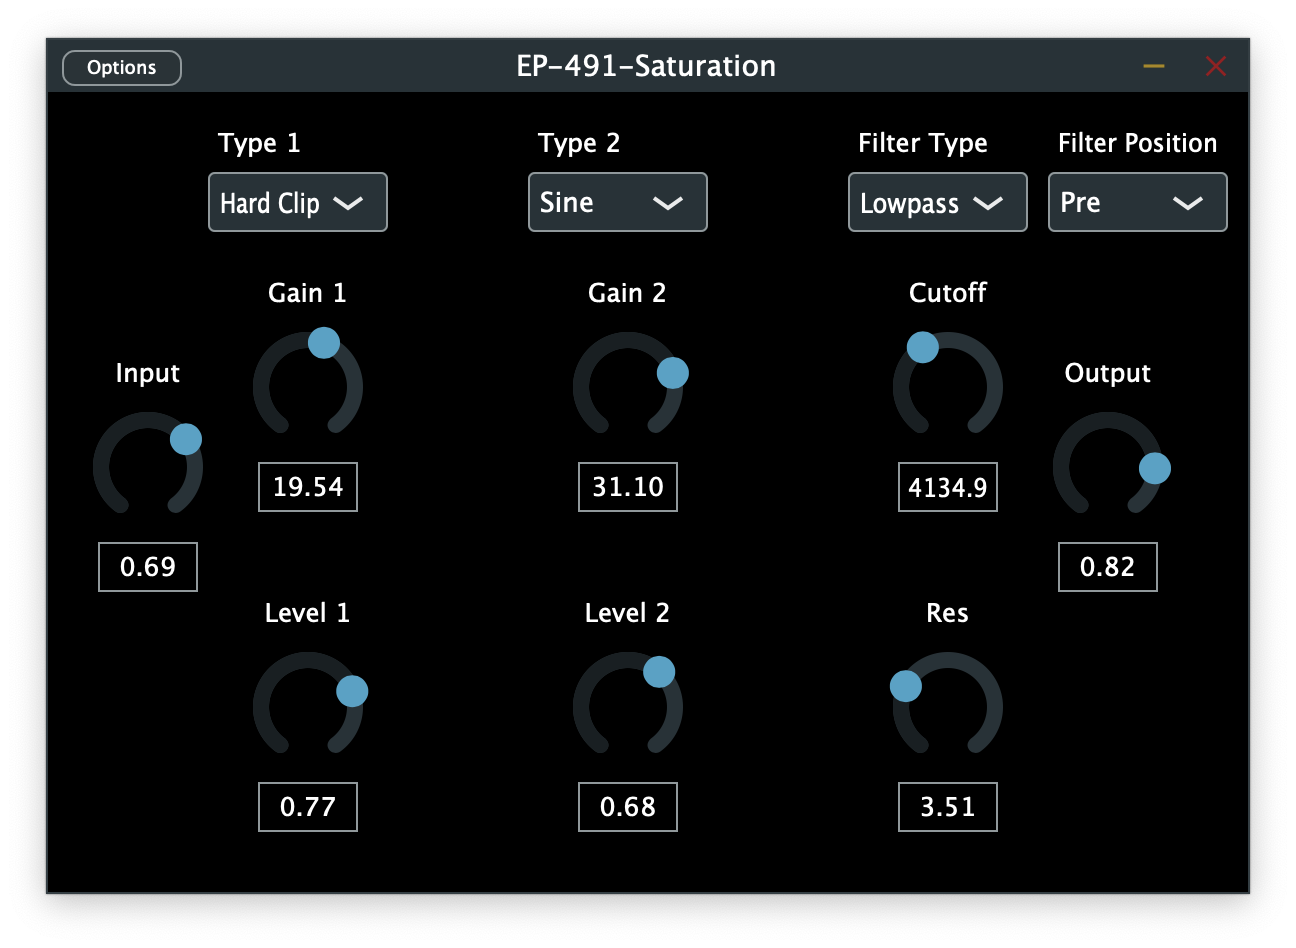
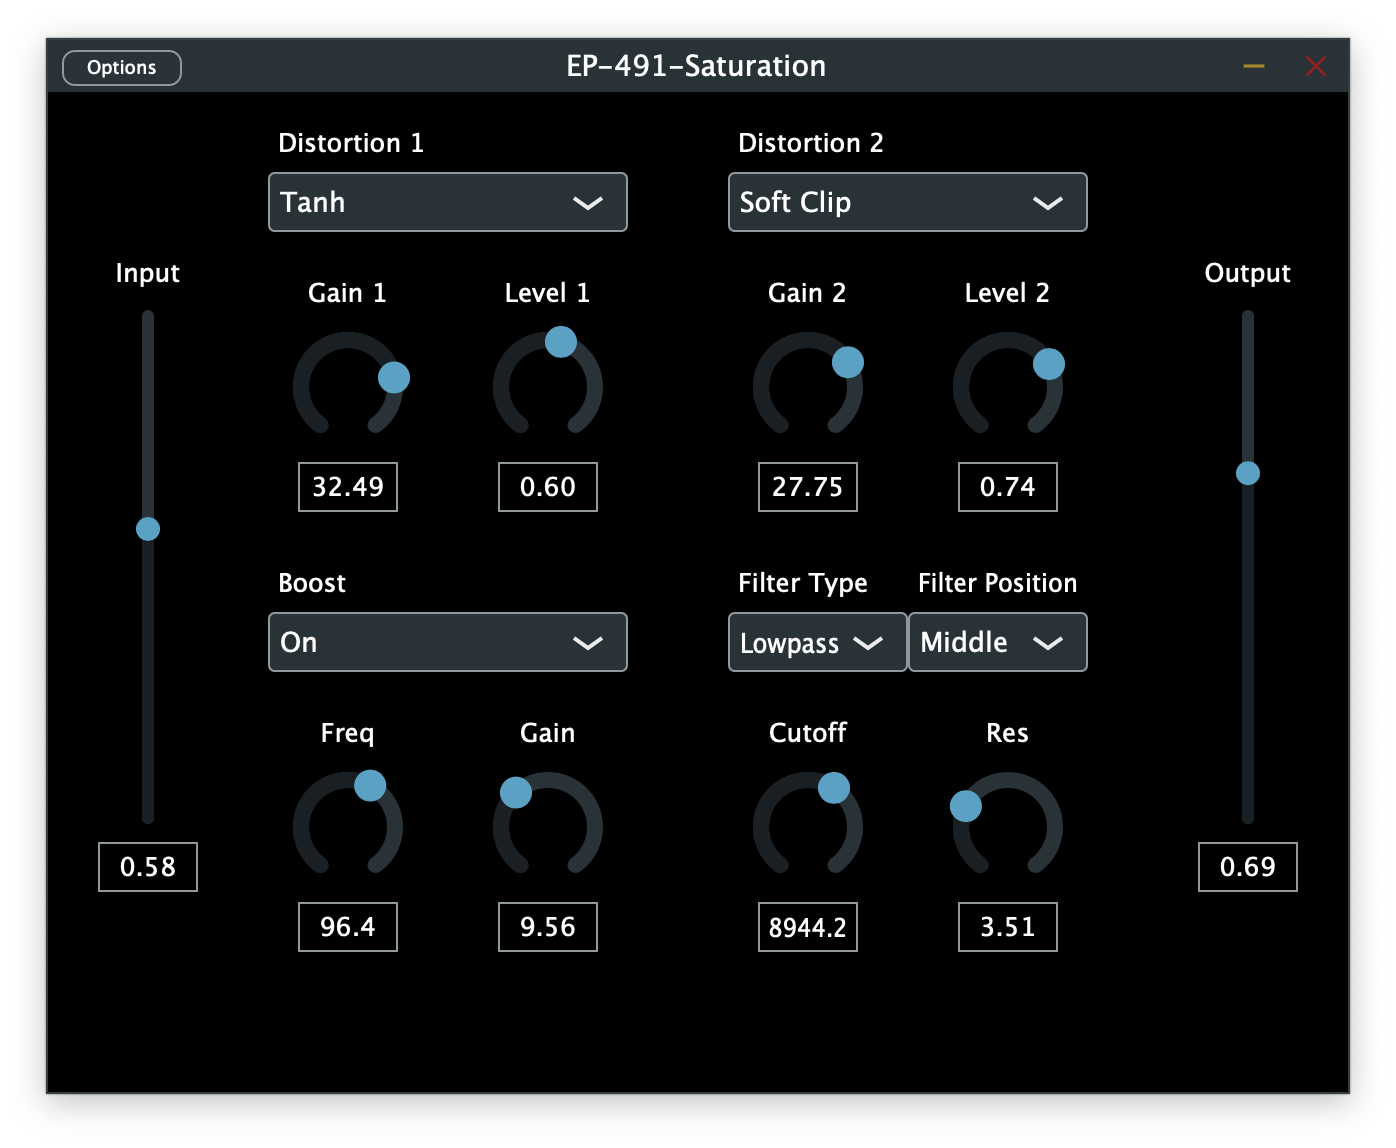
New UI, added boost

diff --git a/EP-491-Saturation/Source/PluginEditor.cpp b/EP-491-Saturation/Source/PluginEditor.cpp
@@ -15,8 +15,8 @@ EP491SaturationAudioProcessorEditor::EP491SaturationAudioProcessorEditor (EP491S
 {
     setComboBoxes();
     
-    setSliderWithLabel (inputSlider, inputLabel, audioProcessor.apvts, "INPUT", inputAttachment);
-    setSliderWithLabel (outputSlider, outputLabel, audioProcessor.apvts, "OUTPUT", outputAttachment);
+    setMixSliderWithLabel (inputSlider, inputLabel, audioProcessor.apvts, "INPUT", inputAttachment);
+    setMixSliderWithLabel (outputSlider, outputLabel, audioProcessor.apvts, "OUTPUT", outputAttachment);
         
     setSliderWithLabel (gain1Slider, gain1Label, audioProcessor.apvts, "DISTGAIN", gain1Attachment);
     setSliderWithLabel (gain2Slider, gain2Label, audioProcessor.apvts, "DISTGAIN2", gain2Attachment);
@@ -27,7 +27,10 @@ EP491SaturationAudioProcessorEditor::EP491SaturationAudioProcessorEditor (EP491S
     setSliderWithLabel (cutoffSlider, cutoffLabel, audioProcessor.apvts, "FILTERFREQ", cutoffAttachment);
     setSliderWithLabel (resSlider, resLabel, audioProcessor.apvts, "FILTERRES", resAttachment);
     
-    setSize (600, 400);
+    setSliderWithLabel (boomSlider, boomLabel, audioProcessor.apvts, "BOOM", boomAttachment);
+    setSliderWithLabel (boomFreqSlider, boomFreqLabel, audioProcessor.apvts, "BOOMFREQ", boomFreqAttachment);
+    
+    setSize (650, 500);
 }
 
 EP491SaturationAudioProcessorEditor::~EP491SaturationAudioProcessorEditor()
@@ -48,44 +51,61 @@ void EP491SaturationAudioProcessorEditor::resized()
     const auto sliderWidth = 100;
     const auto sliderHeight = 100;
     
+    const auto mixSliderWidth = 100;
+    const auto mixSliderHeight = 300;
+    
     const auto labelYOffset = 20;
     const auto labelHeight = 20;
     
-    inputSlider.setBounds (0, getHeight() / 2 - 50, sliderWidth, sliderHeight);
+    inputSlider.setBounds (0, 100, mixSliderWidth, mixSliderHeight);
     inputLabel.setBounds (inputSlider.getX(), inputSlider.getY() - labelYOffset, inputSlider.getWidth(), labelHeight);
     
-    outputSlider.setBounds (480, getHeight() / 2 - 50, sliderWidth, sliderHeight);
+    outputSlider.setBounds (550, 100, mixSliderWidth, mixSliderHeight);
     outputLabel.setBounds (outputSlider.getX(), outputSlider.getY() - labelYOffset, outputSlider.getWidth(), labelHeight);
     
-    distType1Box.setBounds (80, 40, boxWidth, boxHeight);
+    distType1Box.setBounds (110, 40, boxWidth * 2, boxHeight);
     distType1Label.setBounds (distType1Box.getX(), distType1Box.getY() - labelYOffset - 10, boxWidth, boxHeight);
-    
-    gain1Slider.setBounds (80, 110, sliderWidth, sliderHeight);
+
+    gain1Slider.setBounds (100, 110, sliderWidth, sliderHeight);
     gain1Label.setBounds (gain1Slider.getX(), gain1Slider.getY() - labelYOffset, gain1Slider.getWidth(), labelHeight);
-    
-    level1Slider.setBounds (80, 270, sliderWidth, sliderHeight);
+
+    level1Slider.setBounds (200, 110, sliderWidth, sliderHeight);
     level1Label.setBounds (level1Slider.getX(), level1Slider.getY() - labelYOffset, level1Slider.getWidth(), labelHeight);
-    
-    distType2Box.setBounds (240, 40, boxWidth, boxHeight);
+
+    distType2Box.setBounds (340, 40, boxWidth * 2, boxHeight);
     distType2Label.setBounds (distType2Box.getX(), distType2Box.getY() - labelYOffset - 10, boxWidth, boxHeight);
-    
-    gain2Slider.setBounds (240, 110, sliderWidth, sliderHeight);
+
+    gain2Slider.setBounds (330, 110, sliderWidth, sliderHeight);
     gain2Label.setBounds (gain2Slider.getX(), gain2Slider.getY() - labelYOffset, gain2Slider.getWidth(), labelHeight);
-    
-    level2Slider.setBounds (240, 270, sliderWidth, sliderHeight);
+
+    level2Slider.setBounds (430, 110, sliderWidth, sliderHeight);
     level2Label.setBounds (level2Slider.getX(), level2Slider.getY() - labelYOffset, level2Slider.getWidth(), labelHeight);
-    
-    filterTypeBox.setBounds (400, 40, boxWidth, boxHeight);
+
+    filterTypeBox.setBounds (340, 260, boxWidth, boxHeight);
     filterTypeLabel.setBounds (filterTypeBox.getX(), filterTypeBox.getY() - labelYOffset - 10, boxWidth, boxHeight);
-    
-    filterPosBox.setBounds (filterTypeBox.getX() + boxWidth + 10, 40, boxWidth, boxHeight);
+
+    filterPosBox.setBounds (filterTypeBox.getX() + boxWidth, 260, boxWidth, boxHeight);
     filterPosLabel.setBounds (filterPosBox.getX(), filterPosBox.getY() - labelYOffset - 10, boxWidth, boxHeight);
-    
-    cutoffSlider.setBounds (400, 110, sliderWidth, sliderHeight);
+
+    cutoffSlider.setBounds (330, 330, sliderWidth, sliderHeight);
     cutoffLabel.setBounds (cutoffSlider.getX(), cutoffSlider.getY() - labelYOffset, cutoffSlider.getWidth(), labelHeight);
-    
-    resSlider.setBounds (400, 270, sliderWidth, sliderHeight);
+
+    resSlider.setBounds (430, 330, sliderWidth, sliderHeight);
     resLabel.setBounds (resSlider.getX(), resSlider.getY() - labelYOffset, resSlider.getWidth(), labelHeight);
+    
+    boomBox.setBounds (110, 260, boxWidth * 2, boxHeight);
+    boomBoxLabel.setBounds (boomBox.getX(), boomBox.getY() - labelYOffset - 10, boxWidth, boxHeight);
+    
+    
+    boomFreqSlider.setBounds (100, 330, sliderWidth, sliderHeight);
+    boomFreqLabel.setBounds (boomFreqSlider.getX(), boomFreqSlider.getY() - labelYOffset, boomFreqSlider.getWidth(), labelHeight);
+    
+    boomSlider.setBounds (200, 330, sliderWidth, sliderHeight);
+    boomLabel.setBounds (boomSlider.getX(), boomSlider.getY() - labelYOffset, boomSlider.getWidth(), labelHeight);
+    
+    
+    
+    
 }
 
 using BoxAttachment = juce::AudioProcessorValueTreeState::ComboBoxAttachment;
@@ -133,11 +153,36 @@ void EP491SaturationAudioProcessorEditor::setComboBoxes()
     filterPosLabel.setFont (15.0f);
     filterPosLabel.setJustificationType (juce::Justification::left);
     addAndMakeVisible (filterPosLabel);
+    
+    juce::StringArray boomChoices { "Off", "On"};
+    boomBox.addItemList (boomChoices, 1);
+    addAndMakeVisible (boomBox);
+    
+    boomBoxAttachment = std::make_unique<BoxAttachment>(audioProcessor.apvts, "BOOMTYPE", boomBox);
+    
+    boomBoxLabel.setColour (juce::Label::ColourIds::textColourId, juce::Colours::white);
+    boomBoxLabel.setFont (15.0f);
+    boomBoxLabel.setJustificationType (juce::Justification::left);
+    addAndMakeVisible (boomBoxLabel);
 }
 
 void EP491SaturationAudioProcessorEditor::setSliderWithLabel (juce::Slider& slider, juce::Label& label, juce::AudioProcessorValueTreeState& apvts, juce::String paramID, std::unique_ptr<SliderAttachment>& attachment)
 {
     slider.setSliderStyle(juce::Slider::SliderStyle::RotaryHorizontalVerticalDrag);
+    slider.setTextBoxStyle(juce::Slider::TextBoxBelow, false, 50, 25);
+    addAndMakeVisible(slider);
+    
+    attachment = std::make_unique<juce::AudioProcessorValueTreeState::SliderAttachment>(apvts, paramID, slider);
+    
+    label.setColour(juce::Label::ColourIds::textColourId, juce::Colours::white);
+    label.setFont(15.0f);
+    label.setJustificationType(juce::Justification::centred);
+    addAndMakeVisible(label);
+}
+
+void EP491SaturationAudioProcessorEditor::setMixSliderWithLabel (juce::Slider& slider, juce::Label& label, juce::AudioProcessorValueTreeState& apvts, juce::String paramID, std::unique_ptr<SliderAttachment>& attachment)
+{
+    slider.setSliderStyle(juce::Slider::SliderStyle::LinearVertical);
     slider.setTextBoxStyle(juce::Slider::TextBoxBelow, false, 50, 25);
     addAndMakeVisible(slider);
     

diff --git a/EP-491-Saturation/Source/PluginProcessor.cpp b/EP-491-Saturation/Source/PluginProcessor.cpp
@@ -162,7 +162,9 @@ void EP491SaturationAudioProcessor::processBlock (juce::AudioBuffer<float>& buff
     auto& res = *apvts.getRawParameterValue("FILTERRES");
     auto& filterPos = *apvts.getRawParameterValue("FILTERPOS");
     
+    auto& boomType = *apvts.getRawParameterValue("BOOMTYPE");
     auto& boomGain = *apvts.getRawParameterValue("BOOM");
+    auto& boomFreq = *apvts.getRawParameterValue("BOOMFREQ");
     
     float diodeFreq = 200.f;
     
@@ -201,7 +203,10 @@ void EP491SaturationAudioProcessor::processBlock (juce::AudioBuffer<float>& buff
         setFilter (buffer, cutoff, res, filterTypeProcess);
     }
     
-    boom (buffer, boomGain, getSampleRate(), totalNumOutputChannels);
+    if (boomType == 1 )
+    {
+        boom (buffer, boomGain, boomFreq, getSampleRate(), totalNumOutputChannels);
+    }
     
     for (int channel = 0; channel < totalNumOutputChannels; ++channel)
     {
@@ -275,6 +280,7 @@ void EP491SaturationAudioProcessor::setDistortionType(const int choice, juce::Au
             
         case 6:
             tanh(buffer, gain, level, numChannels);
+            break;
             
         default:
             jassertfalse;
@@ -476,11 +482,11 @@ void EP491SaturationAudioProcessor::setFilter(juce::AudioBuffer<float> &buffer, 
     filter.process (context);
 }
 
-void EP491SaturationAudioProcessor::boom(juce::AudioBuffer<float>& buffer, float gain, double sampleRate, int numChannels)
+void EP491SaturationAudioProcessor::boom(juce::AudioBuffer<float>& buffer, float gain, float freq, double sampleRate, int numChannels)
 {
-    float boomFreq = 150.f;
+    float q = 0.8f;
     
-    *iirFilter.state = *juce::dsp::IIR::Coefficients<float>::makePeakFilter(sampleRate, boomFreq, 0.6f, gain);
+    *iirFilter.state = *juce::dsp::IIR::Coefficients<float>::makePeakFilter(sampleRate, freq, q, gain);
     
     auto audioBlock = juce::dsp::AudioBlock<float> (buffer);
     auto context = juce::dsp::ProcessContextReplacing<float> (audioBlock);
@@ -524,8 +530,14 @@ juce::AudioProcessorValueTreeState::ParameterLayout EP491SaturationAudioProcesso
     
     params.push_back(std::make_unique<juce::AudioParameterChoice>(juce::ParameterID { "FILTERPOS", 1 }, "Filter Position", juce::StringArray { "Pre", "Middle", "Post" }, 0));
     
+    
     // Boom params
-    params.push_back(std::make_unique<juce::AudioParameterFloat>(juce::ParameterID { "BOOM", 1 }, "Boom", juce::NormalisableRange<float> { 0.01f, 50.0f, 0.01f, 0.6f }, 1.0f));
+    params.push_back(std::make_unique<juce::AudioParameterChoice>(juce::ParameterID { "BOOMTYPE", 1 }, "Boom Type", juce::StringArray { "Off", "On" }, 0));
+    
+    params.push_back(std::make_unique<juce::AudioParameterFloat>(juce::ParameterID { "BOOM", 1 }, "Boom", juce::NormalisableRange<float> { 1.f, 50.0f, 0.01f, 0.6f }, 1.0f));
+    
+    params.push_back(std::make_unique<juce::AudioParameterFloat>(juce::ParameterID { "BOOMFREQ", 1}, "Boom Freq", juce::NormalisableRange<float> { 20.0f, 200.f, 0.1f, 0.6f }, 200.f));
+
     
     return { params.begin(), params.end() };
 }

diff --git a/EP-491-Saturation/Source/PluginEditor.h b/EP-491-Saturation/Source/PluginEditor.h
@@ -36,7 +36,7 @@ private:
     // Distortion Type
     juce::ComboBox distType1Box, distType2Box;
     std::unique_ptr<BoxAttachment> distType1Attachment, distType2Attachment;
-    juce::Label distType1Label { "Distortion Tyoe 1", "Type 1"}, distType2Label { "Distortion Tyoe 2", "Type 2"};
+    juce::Label distType1Label { "Distortion Tyoe 1", "Distortion 1"}, distType2Label { "Distortion Tyoe 2", "Distortion 2"};
     
     // Gain
     juce::Slider gain1Slider, gain2Slider;
@@ -61,10 +61,19 @@ private:
     std::unique_ptr<BoxAttachment> filterPosAttachment;
     juce::Label filterPosLabel { "Filter Position", "Filter Position" };
     
+    // Boom
+    juce::ComboBox boomBox;
+    std::unique_ptr<BoxAttachment> boomBoxAttachment;
+    juce::Label boomBoxLabel { "Boom", "Boost" };
+    
+    juce::Slider boomSlider, boomFreqSlider;
+    std::unique_ptr<SliderAttachment> boomAttachment, boomFreqAttachment;
+    juce::Label boomLabel { "Boom Gain", "Gain" }, boomFreqLabel { "Boom Freq", "Freq" };
     
     void setComboBoxes();
-
     void setSliderWithLabel (juce::Slider& slider, juce::Label& label, juce::AudioProcessorValueTreeState& apvts, juce::String paramID, std::unique_ptr<SliderAttachment>& attachment);
+    void setMixSliderWithLabel (juce::Slider& slider, juce::Label& label, juce::AudioProcessorValueTreeState& apvts, juce::String paramID, std::unique_ptr<SliderAttachment>& attachment);
+
     
     
     EP491SaturationAudioProcessor& audioProcessor;

diff --git a/EP-491-Saturation/Source/PluginProcessor.h b/EP-491-Saturation/Source/PluginProcessor.h
@@ -67,7 +67,7 @@ public:
     void distortionOff(juce::AudioBuffer<float>& buffer, float gain, float level, int numChannels);
     
     void setFilter(juce::AudioBuffer<float> &buffer, float cutoff, float res, int filterType);
-    void boom(juce::AudioBuffer<float>& buffer, float gain, double sampleRate, int numChannels);
+    void boom(juce::AudioBuffer<float>& buffer, float gain, float freq, double sampleRate, int numChannels);
     
     juce::AudioProcessorValueTreeState apvts;
     
